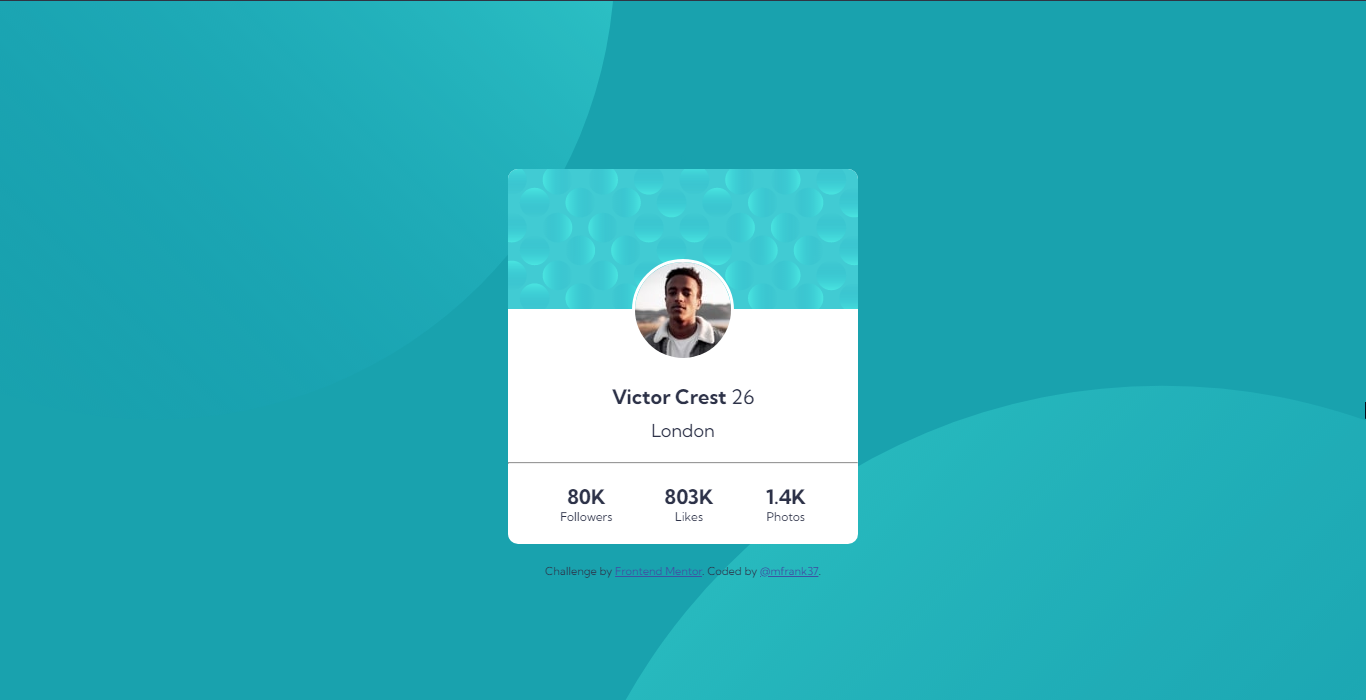
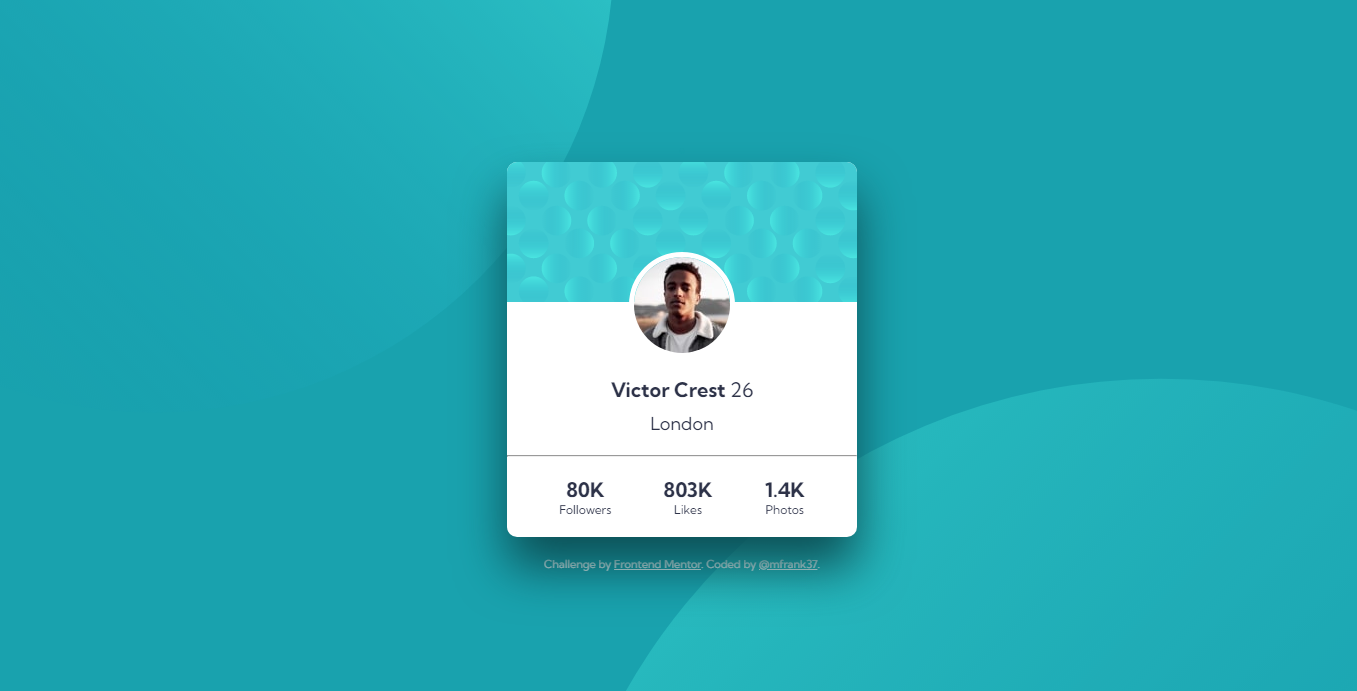
fixes:card shadow (profile-card-component)

diff --git a/profile-card-component-main/css/styles.css b/profile-card-component-main/css/styles.css
@@ -60,6 +60,7 @@ h1 {
   overflow: hidden;
   position: relative;
   max-width: fit-content;
+  box-shadow: 0 30px 50px 0 hsl(185, 75%, 19%);
 }
 
 .user-bg {
@@ -103,4 +104,8 @@ h2 {
 
 .stats p {
   font-size: 12px;
+}
+
+footer, a, a:visited {
+  color: white;
 }
